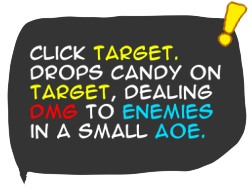
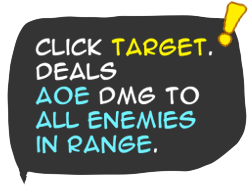
show skill numbers on tooltips

Changed region(s): [[0.1111, 0.1837, 0.8889, 0.7959], [0.8333, 0.2449, 0.8611, 0.2755]]

diff --git a/src/ui/ui_system.cpp b/src/ui/ui_system.cpp
@@ -374,6 +374,11 @@ void UISystem::clearToolTips()
 			entity.get<VisibilityComponent>().isVisible = false;
 		}
 	}
+
+	for (auto entity : ECS::registry<ToolTipText>.entities)
+	{
+		ECS::ContainerInterface::removeAllComponentsOf(entity);
+	}
 }
 
 void UISystem::onMouseHover(const RawMouseHoverEvent& event)
@@ -394,6 +399,8 @@ void UISystem::onMouseHover(const RawMouseHoverEvent& event)
 			ECS::Entity& toolTip = getToolTip(skillType);
 			auto& vis = toolTip.get<VisibilityComponent>();
 			vis.isVisible = true;
+
+			renderToolTipNumbers(skillType);
 		}
 	}
 
@@ -402,6 +409,119 @@ void UISystem::onMouseHover(const RawMouseHoverEvent& event)
 	auto camera = ECS::registry<CameraComponent>.entities[0];
 	auto& cameraPos = camera.get<CameraComponent>().position;
 	EventSystem<MouseHoverEvent>::instance().sendEvent(MouseHoverEvent{ event.mousePos + cameraPos });
+}
+
+void UISystem::renderToolTipNumbers(const SkillType& skillType)
+{
+	ECS::Entity activePlayer = ECS::registry<TurnSystem::TurnComponentIsActive>.entities[0];
+
+	if (!activePlayer.has<PlayerComponent>() || activePlayer.has<DeathTimer>()
+		|| !activePlayer.has<SkillComponent>() || !activePlayer.has<StatsComponent>())
+	{
+		return;
+	}
+
+	if (skillType == SkillType::NONE || skillType == SkillType::MOVE)
+	{
+		return;
+	}
+
+	auto skillLevelMultiplier = activePlayer.get<SkillComponent>().getSkillLevel(skillType) - 1;
+	const PlayerType player = activePlayer.get<PlayerComponent>().player;
+	auto strengthMultiplier = activePlayer.get<StatsComponent>().getStatValue(StatType::STRENGTH);
+
+	switch (player) {
+	case PlayerType::RAOUL:
+		if (skillType == SkillType::SKILL1)
+		{
+			float dmg = playerBaseSkillValues[0][0] + skillLevelMultiplier * 5.f;
+			dmg *= strengthMultiplier;
+			createText(floatToString(dmg), vec2(297.f, 665.f), NUMSCALE - 0.03, RED).emplace<ToolTipText>();
+		}
+		else if (skillType == SkillType::SKILL2)
+		{
+			float buffAmount = playerBaseSkillValues[0][1] + skillLevelMultiplier * 10.f;
+			createText(floatToString(buffAmount) + "%", vec2(490.f, 665.f), NUMSCALE - 0.05f, PINK).emplace<ToolTipText>();
+		}
+		else if (skillType == SkillType::SKILL3)
+		{
+			float dmg = playerBaseSkillValues[0][2] + skillLevelMultiplier * 5.f;
+			dmg *= strengthMultiplier;
+			createText(floatToString(dmg), vec2(602.f, 705.f), NUMSCALE - 0.1f, RED).emplace<ToolTipText>();
+		}
+		break;
+	case PlayerType::TAJI:
+		if (skillType == SkillType::SKILL1)
+		{
+			float dmg = playerBaseSkillValues[1][0] + skillLevelMultiplier * 5.f;
+			dmg *= strengthMultiplier;
+			createText(floatToString(dmg), vec2(313.f, 665.f), NUMSCALE, RED).emplace<ToolTipText>();
+		}
+		else if (skillType == SkillType::SKILL2)
+		{
+			float dmg = playerBaseSkillValues[1][1] + skillLevelMultiplier * 5.f;
+			dmg *= strengthMultiplier;
+			float duration = skillLevelMultiplier == 2 ? 2.f : 1.f; // 2 turns at max level, else 1 turn
+			createText(floatToString(dmg), vec2(452.f, 654.f), NUMSCALE - 0.05f, RED).emplace<ToolTipText>();
+			createText(floatToString(duration), vec2(439.f, 741.f), NUMSCALE, CYAN).emplace<ToolTipText>();
+		}
+		else if (skillType == SkillType::SKILL3)
+		{
+			float dmg = playerBaseSkillValues[1][2] + skillLevelMultiplier * 4.f;
+			float heal = dmg; // heals do not scale off strength 
+			dmg *= strengthMultiplier;
+			createText(floatToString(dmg), vec2(586.f, 663.f), NUMSCALE - 0.1f, RED).emplace<ToolTipText>();
+			createText(floatToString(heal), vec2(634.f, 703.f), NUMSCALE - 0.1f, GREEN).emplace<ToolTipText>();
+		}
+		break;
+	case PlayerType::EMBER:
+		if (skillType == SkillType::SKILL1)
+		{
+			float dmg = playerBaseSkillValues[2][0] + skillLevelMultiplier * 5.f;
+			dmg *= strengthMultiplier;
+			createText(floatToString(dmg), vec2(313.f, 663.f), NUMSCALE, RED).emplace<ToolTipText>();
+		}
+		else if (skillType == SkillType::SKILL2)
+		{
+			float dmg = playerBaseSkillValues[2][1] + skillLevelMultiplier * 8.f;
+			dmg *= strengthMultiplier;
+			createText(floatToString(dmg), vec2(452.f, 663.f), NUMSCALE - 0.05f, RED).emplace<ToolTipText>();
+		}
+		else if (skillType == SkillType::SKILL3)
+		{
+			float dmg = playerBaseSkillValues[2][2] + skillLevelMultiplier * 5.f;
+			dmg *= strengthMultiplier;
+			createText(floatToString(dmg), vec2(600.f, 657.f), NUMSCALE - 0.07f, RED).emplace<ToolTipText>();
+		}
+		break;
+	case PlayerType::CHIA:
+		if (skillType == SkillType::SKILL1)
+		{
+			float dmg = playerBaseSkillValues[3][0] + skillLevelMultiplier * 10.f;
+			dmg *= strengthMultiplier;
+			float heal = playerBaseSkillValues[3][1] + skillLevelMultiplier * 10.f;
+			createText(floatToString(dmg), vec2(345.f, 712.f), NUMSCALE - 0.1f, RED).emplace<ToolTipText>();
+			createText(floatToString(heal), vec2(298.f, 675.f), NUMSCALE - 0.1f, GREEN).emplace<ToolTipText>();
+		}
+		else if (skillType == SkillType::SKILL2)
+		{
+			float debuffAmount = playerBaseSkillValues[3][2] + skillLevelMultiplier * 10.f;
+			float dmg = playerBaseSkillValues[3][3] + skillLevelMultiplier * 5.f;
+			dmg *= strengthMultiplier;
+			createText(floatToString(dmg), vec2(445.f, 662.f), NUMSCALE - 0.07f, RED).emplace<ToolTipText>();
+			createText(floatToString(debuffAmount) + "%", vec2(390.f, 704.f), NUMSCALE - 0.07f, PINK).emplace<ToolTipText>();
+		}
+		else if (skillType == SkillType::SKILL3)
+		{
+			float shieldAmount = playerBaseSkillValues[3][4] + skillLevelMultiplier * 10.f;
+			float duration = playerBaseSkillValues[3][5] + skillLevelMultiplier;
+			createText(floatToString(shieldAmount), vec2(655.f, 695.f), NUMSCALE - 0.06f, CYAN).emplace<ToolTipText>();
+			createText(floatToString(duration), vec2(598.f, 716.f), NUMSCALE, CYAN).emplace<ToolTipText>();
+		}
+		break;
+	default:
+		break;
+	}
 }
 
 void UISystem::activateSkillButton(const SkillType& skillType)

diff --git a/src/entities/ember.cpp b/src/entities/ember.cpp
@@ -150,17 +150,17 @@ void Ember::addSkill3(ECS::Entity entity, SkillComponent& skillComponent)
 	// Create as many levels of this skill as needed
 	auto level1Params = createParams();
 	level1Params->entityProvider = std::make_shared<CircularProvider>(350.f);
-	level1Params->entityHandler = std::make_shared<KnockbackHandler>(350.f, 300.f, 40.f);
+	level1Params->entityHandler = std::make_shared<KnockbackHandler>(350.f, 300.f, 25.f);
 	auto level1Skill = std::make_shared<AreaOfEffectSkill>(level1Params);
 
 	auto level2Params = createParams();
 	level2Params->entityProvider = std::make_shared<CircularProvider>(385.f);
-	level2Params->entityHandler = std::make_shared<KnockbackHandler>(385.f, 330.f, 49.f);
+	level2Params->entityHandler = std::make_shared<KnockbackHandler>(385.f, 330.f, 30.f);
 	auto level2Skill = std::make_shared<AreaOfEffectSkill>(level2Params);
 
 	auto level3Params = createParams();
 	level3Params->entityProvider = std::make_shared<CircularProvider>(420.f);
-	level3Params->entityHandler = std::make_shared<KnockbackHandler>(420.f, 360.f, 53.f);
+	level3Params->entityHandler = std::make_shared<KnockbackHandler>(420.f, 360.f, 35.f);
 	auto level3Skill = std::make_shared<AreaOfEffectSkill>(level3Params);
 
 	SkillLevels levels = {

diff --git a/src/entities/taji.cpp b/src/entities/taji.cpp
@@ -116,14 +116,14 @@ void Taji::addSkill2(ECS::Entity entity, SkillComponent& skillComponent)
 	auto level1Skill = std::make_shared<AreaOfEffectSkill>(level1Params);
 
 	auto level2Params = createParams();
-	level2Params->entityProvider = std::make_shared<MouseClickProvider>(125.f);
-	level2Params->entityHandler = std::make_shared<DebuffAndDamageHandler>(StatType::STUNNED, 1.f, 1, 30.f);
+	level2Params->entityProvider = std::make_shared<MouseClickProvider>(100.f);
+	level2Params->entityHandler = std::make_shared<DebuffAndDamageHandler>(StatType::STUNNED, 1.f, 1, 25.f);
 	level2Params->entityHandler->addFX(FXType::CANDY2);
 	auto level2Skill = std::make_shared<AreaOfEffectSkill>(level2Params);
 
 	auto level3Params = createParams();
-	level3Params->entityProvider = std::make_shared<MouseClickProvider>(150.f);
-	level3Params->entityHandler = std::make_shared<DebuffAndDamageHandler>(StatType::STUNNED, 1.f, 2, 40.f);
+	level3Params->entityProvider = std::make_shared<MouseClickProvider>(100.f);
+	level3Params->entityHandler = std::make_shared<DebuffAndDamageHandler>(StatType::STUNNED, 1.f, 2, 30.f);
 	level3Params->entityHandler->addFX(FXType::CANDY2);
 	auto level3Skill = std::make_shared<AreaOfEffectSkill>(level3Params);
 

diff --git a/src/game/world.cpp b/src/game/world.cpp
@@ -417,12 +417,12 @@ void WorldSystem::onMouseClick(int button, int action, int mods) const
 		double mousePosX, mousePosY;
 		glfwGetCursorPos(window, &mousePosX, &mousePosY);
 
-		//std::cout << "Mouse click (release): {" << mousePosX << ", " << mousePosY << "}" << std::endl;
+		std::cout << "Mouse click (release): {" << mousePosX << ", " << mousePosY << "}" << std::endl;
 
 		auto camera = ECS::registry<CameraComponent>.entities[0];
 		auto& cameraPos = camera.get<CameraComponent>().position;
 		// mouse click print without camera position
-		std::cout << "Mouse click (release): {" << mousePosX + cameraPos.x << ", " << mousePosY + cameraPos.y << "}" << std::endl;
+		//std::cout << "Mouse click (release): {" << mousePosX + cameraPos.x << ", " << mousePosY + cameraPos.y << "}" << std::endl;
 
 		if (GameStateSystem::instance().isTransitioning)
 		{

diff --git a/src/ui/shop_system.hpp b/src/ui/shop_system.hpp
@@ -33,7 +33,7 @@ class ShopSystem
 			"Increase the damage of the projectile by 5",
 			"Increase Taji's damage and health by 10%",
 			"Increase the range by 10% and damage by 5",
-			"Increase the range by 25% and damage by 10",
+			"Increase damage by 5. At max level, increases stun duration by 1 turn",
 			"Increase both heal and damage of this skill by 4",
 			"Increase Chia's damage and health by 10%",
 			"Increase both heal and damage of this skill by 10",
@@ -42,7 +42,7 @@ class ShopSystem
 			"Increase Ember's damage and health by 10%",
 			"Increase range by 10% and damage by 5",
 			"Increase range by 10% and damage by 8",
-			"Increase range, damage, and knockback by 10%",
+			"Increase range and knockback by 10% and damage by 5",
 		};
 
 		ECS::Entity raoul;

diff --git a/src/ui/ui_system.hpp b/src/ui/ui_system.hpp
@@ -66,8 +66,17 @@ private:
 	void activateSkillButton(const SkillType& skillType);
 	void enableMoveButton(bool doEnable = true);
 	void enableSkillButtons(bool doEnable = true);
-	void enableActiveSkillFX(bool doEnable = true);
 
 	void clearToolTips();
 	ECS::Entity& getToolTip(SkillType skill);
+	void renderToolTipNumbers(const SkillType& skillType);
+
+	const std::vector < std::vector<float> > playerBaseSkillValues{
+		{ 30.f, 40.f, 15.f }, // Raoul - S1 dmg, S2 buff%, S3 dmg
+		{ 20.f, 20.f, 8.f }, // Taji - S1 dmg, S2 dmg, S3 dmg + heal
+		{ 25.f, 50.f, 25.f }, // Ember - S1 dmg, S2 dmg, S3 dmg
+		{ 30.f, 20.f, 40.f,  15.f, 30.f, 1.f }, // Chia - S1 dmg, S1 heal, S2 debuff%, S2 dmg, S3 shield, S3 turn duration
+	};
+
+	const float NUMSCALE = 0.45f;
 };

diff --git a/src/game/common.hpp b/src/game/common.hpp
@@ -163,3 +163,13 @@ enum class FXType
 	BLUEBERRIED,
 	STUNNED
 };
+
+// Lambda to convert floating point dmg number to a string up to 2 decimal places with no trailing zeros
+std::string floatToString(float number);
+
+static const vec3 RED = vec3(1.0, 0.0, 0.0);
+static const vec3 GREEN = vec3(0.0, 1.0, 0.0);
+static const vec3 BLUE = vec3(0.0, 0.2, 1.0);
+static const vec3 CYAN = vec3(0.0, 1.0, 1.0);
+static const vec3 ORANGE = vec3(0.8, 0.5, 0.0);
+static const vec3 PINK = vec3(1.0, 0.5, 0.7);

diff --git a/src/game/common.cpp b/src/game/common.cpp
@@ -44,3 +44,13 @@ float playerToFloat(const PlayerType& player)
 
 	return output;
 }
+
+std::string floatToString (float number)
+{
+	int roundedNum = (int)(number * 100 + .5);
+	float fixedNum = (float)roundedNum / 100.f;
+	std::string numString = std::to_string(fixedNum);
+	numString.erase(numString.find_last_not_of('0') + 1, std::string::npos);
+	numString.erase(numString.find_last_not_of('.') + 1, std::string::npos);
+	return numString;
+};

diff --git a/src/ui/ui_components.hpp b/src/ui/ui_components.hpp
@@ -67,3 +67,4 @@ struct MoveToolTipComponent {};
 struct MoveButtonComponent {};
 struct TutorialComponent {};
 struct StoryComponent {};
+struct ToolTipText {};
